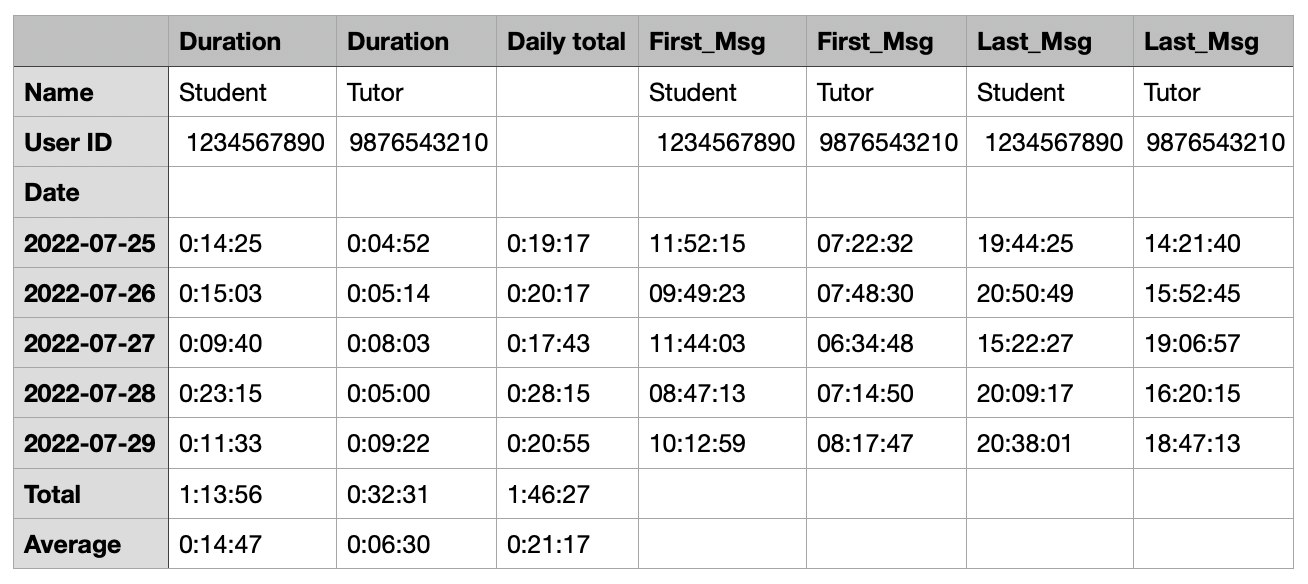
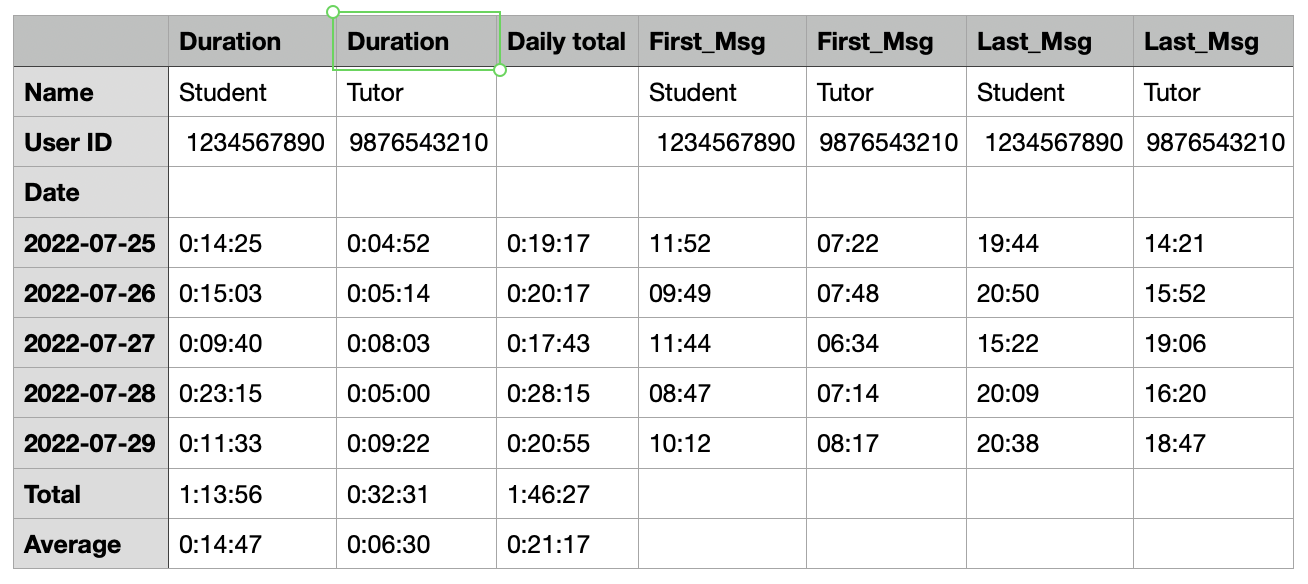
Skip seconds in new first and last message time columns

diff --git a/app/reporter.py b/app/reporter.py
@@ -85,7 +85,7 @@ def seconds_to_intervals(second_series):
 
 def epoch_time_to_time(unix_time_series):
     return [
-        pd.to_datetime(unix_time, unit='s').strftime('%X')
+        pd.to_datetime(unix_time, unit='s').strftime('%H:%M')
         if pd.notna(unix_time)
         else ""
         for unix_time in unix_time_series
